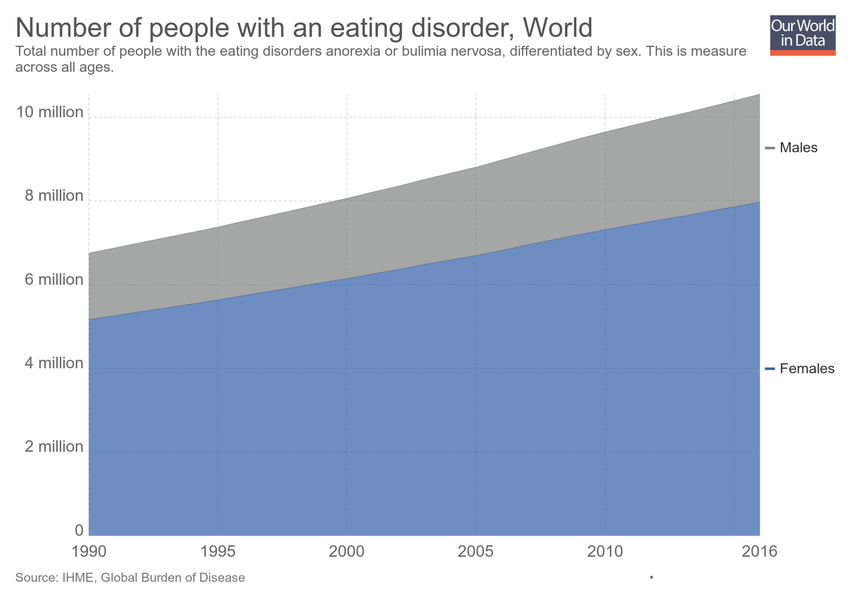
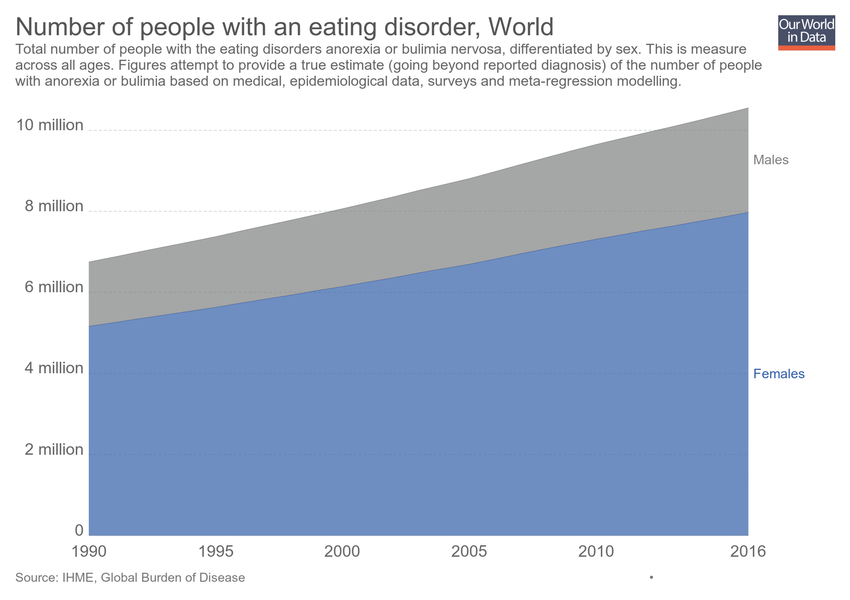
Updating chart number-with-an-eating-disorder

diff --git a/grapher/rate-of-internationally-observed-elections.html b/grapher/rate-of-internationally-observed-elections.html
@@ -1,4 +1,4 @@
-<!doctype html><html><head><meta name="viewport" content="width=device-width, initial-scale=1" /><title>Internationally observed elections (%) - Our World in Data</title><meta name="description" content="Percentage of internationally observed elections and whether they were criticized by international observers. Figures cover 1,754 election events in 157 independent states, excluding those with population less than 250,000." /><link rel="canonical" href="https://ourworldindata.org/grapher/rate-of-internationally-observed-elections" /><meta property="fb:app_id" content="1149943818390250" /><meta property="og:url" content="https://ourworldindata.org/grapher/rate-of-internationally-observed-elections" /><meta property="og:title" content="Internationally observed elections (%)" /><meta property="og:description" content="Percentage of internationally observed elections and whether they were criticized by international observers. Figures cover 1,754 election events in 157 independent states, excluding those with population less than 250,000." /><meta property="og:image" content="https://ourworldindata.org/grapher/exports/rate-of-internationally-observed-elections.png?v=16" /><meta property="og:image:width" content="850" /><meta property="og:image:height" content="600" /><meta property="og:site_name" content="Our World in Data" /><meta name="twitter:card" content="summary_large_image" /><meta name="twitter:site" content="@OurWorldInData" /><meta name="twitter:creator" content="@OurWorldInData" /><meta name="twitter:title" content="Internationally observed elections (%)" /><meta name="twitter:description" content="Percentage of internationally observed elections and whether they were criticized by international observers. Figures cover 1,754 election events in 157 independent states, excluding those with population less than 250,000." /><meta name="twitter:image" content="https://ourworldindata.org/grapher/exports/rate-of-internationally-observed-elections.png?v=16" /><style>
+<!doctype html><html><head><meta name="viewport" content="width=device-width, initial-scale=1" /><title>Internationally observed elections by Western monitors - Our World in Data</title><meta name="description" content="Estimates correspond to the number of international elections that were either observed and criticized by Western monitors, observed and not criticized by Western monitors, or elections that were not observed by Western monitors. Criticism refers to allegations of significant vote-fraud." /><link rel="canonical" href="https://ourworldindata.org/grapher/rate-of-internationally-observed-elections" /><meta property="fb:app_id" content="1149943818390250" /><meta property="og:url" content="https://ourworldindata.org/grapher/rate-of-internationally-observed-elections" /><meta property="og:title" content="Internationally observed elections by Western monitors" /><meta property="og:description" content="Estimates correspond to the number of international elections that were either observed and criticized by Western monitors, observed and not criticized by Western monitors, or elections that were not observed by Western monitors. Criticism refers to allegations of significant vote-fraud." /><meta property="og:image" content="https://ourworldindata.org/grapher/exports/rate-of-internationally-observed-elections.png?v=9" /><meta property="og:image:width" content="850" /><meta property="og:image:height" content="600" /><meta property="og:site_name" content="Our World in Data" /><meta name="twitter:card" content="summary_large_image" /><meta name="twitter:site" content="@OurWorldInData" /><meta name="twitter:creator" content="@OurWorldInData" /><meta name="twitter:title" content="Internationally observed elections by Western monitors" /><meta name="twitter:description" content="Estimates correspond to the number of international elections that were either observed and criticized by Western monitors, observed and not criticized by Western monitors, or elections that were not observed by Western monitors. Criticism refers to allegations of significant vote-fraud." /><meta name="twitter:image" content="https://ourworldindata.org/grapher/exports/rate-of-internationally-observed-elections.png?v=9" /><style>
         html, body {
             height: 100%;
             margin: 0;
@@ -20,8 +20,8 @@
         }
     </style><noscript><style>
                     figure { display: none !important; }
-                </style></noscript><link rel="stylesheet" href="https://ourworldindata.org/grapher/assets/commons.bundle.ac09ff8f098f0c7be836.css" /><link rel="preload" href="/grapher/data/variables/97378+97379.json?v=16" as="fetch" crossorigin /></head><body class="singleChart"><figure data-grapher-src="/grapher/rate-of-internationally-observed-elections"></figure><noscript id="fallback"><img src="/grapher/exports/rate-of-internationally-observed-elections.svg" /><p>Interactive visualization requires JavaScript</p></noscript><script src="https://cdn.polyfill.io/v2/polyfill.min.js?features=es6,fetch"></script><script src="https://ourworldindata.org/grapher/assets/commons.bundle.ac09ff8f098f0c7be836.js"></script><script src="https://ourworldindata.org/grapher/assets/charts.bundle.dcf65b68eddaba4c6a58.js"></script><script>
-        var jsonConfig = {"id":2589,"map":{"projection":"World","colorSchemeLabels":[],"colorSchemeValues":[],"colorSchemeMinValue":0,"customNumericColors":[],"customCategoryColors":{},"customCategoryLabels":{},"customHiddenCategories":{}},"tab":"chart","slug":"rate-of-internationally-observed-elections","type":"StackedArea","title":"Internationally observed elections (%)","xAxis":{"scaleType":"linear"},"yAxis":{"max":80,"min":0,"scaleType":"linear"},"version":16,"subtitle":"Percentage of internationally observed elections and whether they were criticized by international observers. Figures cover 1,754 election events in 157 independent states, excluding those with population less than 250,000.","hasMapTab":false,"stackMode":"absolute","dimensions":[{"display":{"name":"Percent of elections observed and criticised","unit":"%"},"property":"y","variableId":97378},{"display":{"name":"Percent of elections observed and not criticised"},"property":"y","variableId":97379}],"hasChartTab":true,"isPublished":true,"selectedData":[{"index":0,"entityId":355},{"index":1,"entityId":355}],"addCountryMode":"change-country","baseColorScheme":"Plasma","hideRelativeToggle":true,"hideTitleAnnotation":true};
+                </style></noscript><link rel="stylesheet" href="https://ourworldindata.org/grapher/assets/commons.bundle.ac09ff8f098f0c7be836.css" /><link rel="preload" href="/grapher/data/variables/97399+97400+97401.json?v=9" as="fetch" crossorigin /></head><body class="singleChart"><figure data-grapher-src="/grapher/rate-of-internationally-observed-elections"></figure><noscript id="fallback"><img src="/grapher/exports/rate-of-internationally-observed-elections.svg" /><p>Interactive visualization requires JavaScript</p></noscript><script src="https://cdn.polyfill.io/v2/polyfill.min.js?features=es6,fetch"></script><script src="https://ourworldindata.org/grapher/assets/commons.bundle.ac09ff8f098f0c7be836.js"></script><script src="https://ourworldindata.org/grapher/assets/charts.bundle.dcf65b68eddaba4c6a58.js"></script><script>
+        var jsonConfig = {"id":2598,"map":{"projection":"World","colorSchemeLabels":[],"colorSchemeValues":[],"customNumericColors":[],"customCategoryColors":{},"customCategoryLabels":{},"customHiddenCategories":{}},"tab":"chart","note":"Includes 2435 election events in 162 countries","slug":"rate-of-internationally-observed-elections","type":"StackedArea","title":"Internationally observed elections by Western monitors","xAxis":{"scaleType":"linear"},"yAxis":{"min":0,"scaleType":"linear"},"version":9,"subtitle":"Estimates correspond to the number of international elections that were either observed and criticized by Western monitors, observed and not criticized by Western monitors, or elections that were not observed by Western monitors. Criticism refers to allegations of significant vote-fraud.","hasMapTab":false,"stackMode":"relative","dimensions":[{"display":{"name":"Elections not observed","unit":"elections","shortUnit":""},"property":"y","variableId":97399},{"display":{"name":"Elections observed and criticized"},"property":"y","variableId":97400},{"display":{"name":"Elections observed and not critcized"},"property":"y","variableId":97401}],"hasChartTab":true,"isPublished":true,"selectedData":[{"index":0,"entityId":355},{"index":2,"entityId":355},{"index":1,"entityId":355}],"addCountryMode":"change-country","baseColorScheme":"owid-distinct","invertColorScheme":true,"hideTitleAnnotation":true};
         var figure = document.getElementsByTagName("figure")[0];
         try {
             window.App = {};

diff --git a/grapher/number-with-an-eating-disorder.html b/grapher/number-with-an-eating-disorder.html
@@ -1,4 +1,4 @@
-<!doctype html><html><head><meta name="viewport" content="width=device-width, initial-scale=1" /><title>Number of people with an eating disorder - Our World in Data</title><meta name="description" content="Total number of people with the eating disorders anorexia or bulimia nervosa, differentiated by sex. This is measure across all ages." /><link rel="canonical" href="https://ourworldindata.org/grapher/number-with-an-eating-disorder" /><meta property="fb:app_id" content="1149943818390250" /><meta property="og:url" content="https://ourworldindata.org/grapher/number-with-an-eating-disorder" /><meta property="og:title" content="Number of people with an eating disorder" /><meta property="og:description" content="Total number of people with the eating disorders anorexia or bulimia nervosa, differentiated by sex. This is measure across all ages." /><meta property="og:image" content="https://ourworldindata.org/grapher/exports/number-with-an-eating-disorder.png?v=1" /><meta property="og:image:width" content="850" /><meta property="og:image:height" content="600" /><meta property="og:site_name" content="Our World in Data" /><meta name="twitter:card" content="summary_large_image" /><meta name="twitter:site" content="@OurWorldInData" /><meta name="twitter:creator" content="@OurWorldInData" /><meta name="twitter:title" content="Number of people with an eating disorder" /><meta name="twitter:description" content="Total number of people with the eating disorders anorexia or bulimia nervosa, differentiated by sex. This is measure across all ages." /><meta name="twitter:image" content="https://ourworldindata.org/grapher/exports/number-with-an-eating-disorder.png?v=1" /><style>
+<!doctype html><html><head><meta name="viewport" content="width=device-width, initial-scale=1" /><title>Number of people with an eating disorder - Our World in Data</title><meta name="description" content="Total number of people with the eating disorders anorexia or bulimia nervosa, differentiated by sex. This is measure across all ages. Figures attempt to provide a true estimate (going beyond reported diagnosis) of the number of people with anorexia or bulimia based on medical, epidemiological data, surveys and meta-regression modelling." /><link rel="canonical" href="https://ourworldindata.org/grapher/number-with-an-eating-disorder" /><meta property="fb:app_id" content="1149943818390250" /><meta property="og:url" content="https://ourworldindata.org/grapher/number-with-an-eating-disorder" /><meta property="og:title" content="Number of people with an eating disorder" /><meta property="og:description" content="Total number of people with the eating disorders anorexia or bulimia nervosa, differentiated by sex. This is measure across all ages. Figures attempt to provide a true estimate (going beyond reported diagnosis) of the number of people with anorexia or bulimia based on medical, epidemiological data, surveys and meta-regression modelling." /><meta property="og:image" content="https://ourworldindata.org/grapher/exports/number-with-an-eating-disorder.png?v=2" /><meta property="og:image:width" content="850" /><meta property="og:image:height" content="600" /><meta property="og:site_name" content="Our World in Data" /><meta name="twitter:card" content="summary_large_image" /><meta name="twitter:site" content="@OurWorldInData" /><meta name="twitter:creator" content="@OurWorldInData" /><meta name="twitter:title" content="Number of people with an eating disorder" /><meta name="twitter:description" content="Total number of people with the eating disorders anorexia or bulimia nervosa, differentiated by sex. This is measure across all ages. Figures attempt to provide a true estimate (going beyond reported diagnosis) of the number of people with anorexia or bulimia based on medical, epidemiological data, surveys and meta-regression modelling." /><meta name="twitter:image" content="https://ourworldindata.org/grapher/exports/number-with-an-eating-disorder.png?v=2" /><style>
         html, body {
             height: 100%;
             margin: 0;
@@ -20,8 +20,8 @@
         }
     </style><noscript><style>
                     figure { display: none !important; }
-                </style></noscript><link rel="stylesheet" href="https://ourworldindata.org/grapher/assets/commons.bundle.ac09ff8f098f0c7be836.css" /><link rel="preload" href="/grapher/data/variables/84781+84780.json?v=1" as="fetch" crossorigin /></head><body class="singleChart"><figure data-grapher-src="/grapher/number-with-an-eating-disorder"></figure><noscript id="fallback"><img src="/grapher/exports/number-with-an-eating-disorder.svg" /><p>Interactive visualization requires JavaScript</p></noscript><script src="https://cdn.polyfill.io/v2/polyfill.min.js?features=es6,fetch"></script><script src="https://ourworldindata.org/grapher/assets/commons.bundle.ac09ff8f098f0c7be836.js"></script><script src="https://ourworldindata.org/grapher/assets/charts.bundle.dcf65b68eddaba4c6a58.js"></script><script>
-        var jsonConfig = {"map":{"projection":"World","colorSchemeLabels":[],"colorSchemeValues":[],"defaultProjection":"World","colorSchemeMinValue":0,"customNumericColors":[],"customCategoryColors":{},"customCategoryLabels":{},"customHiddenCategories":{}},"tab":"chart","slug":"number-with-an-eating-disorder","type":"StackedArea","title":"Number of people with an eating disorder","xAxis":{"scaleType":"linear"},"yAxis":{"min":0,"scaleType":"linear"},"version":1,"subtitle":"Total number of people with the eating disorders anorexia or bulimia nervosa, differentiated by sex. This is measure across all ages.","hasMapTab":false,"stackMode":"absolute","dimensions":[{"display":{"name":"Females","unit":"number"},"property":"y","variableId":84781,"numDecimalPlaces":0},{"display":{"name":"Males","unit":"number"},"property":"y","variableId":84780,"numDecimalPlaces":0}],"sourceDesc":"IHME, Global Burden of Disease","hasChartTab":true,"isPublished":true,"selectedData":[{"color":"#818282","index":1,"entityId":355},{"index":0,"entityId":355}],"addCountryMode":"change-country","id":2173};
+                </style></noscript><link rel="stylesheet" href="https://ourworldindata.org/grapher/assets/commons.bundle.ac09ff8f098f0c7be836.css" /><link rel="preload" href="/grapher/data/variables/84781+84780.json?v=2" as="fetch" crossorigin /></head><body class="singleChart"><figure data-grapher-src="/grapher/number-with-an-eating-disorder"></figure><noscript id="fallback"><img src="/grapher/exports/number-with-an-eating-disorder.svg" /><p>Interactive visualization requires JavaScript</p></noscript><script src="https://cdn.polyfill.io/v2/polyfill.min.js?features=es6,fetch"></script><script src="https://ourworldindata.org/grapher/assets/commons.bundle.ac09ff8f098f0c7be836.js"></script><script src="https://ourworldindata.org/grapher/assets/charts.bundle.dcf65b68eddaba4c6a58.js"></script><script>
+        var jsonConfig = {"id":2173,"map":{"projection":"World","colorSchemeLabels":[],"colorSchemeValues":[],"colorSchemeMinValue":0,"customNumericColors":[],"customCategoryColors":{},"customCategoryLabels":{},"customHiddenCategories":{}},"tab":"chart","slug":"number-with-an-eating-disorder","type":"StackedArea","title":"Number of people with an eating disorder","xAxis":{"scaleType":"linear"},"yAxis":{"min":0,"scaleType":"linear"},"version":2,"subtitle":"Total number of people with the eating disorders anorexia or bulimia nervosa, differentiated by sex. This is measure across all ages. Figures attempt to provide a true estimate (going beyond reported diagnosis) of the number of people with anorexia or bulimia based on medical, epidemiological data, surveys and meta-regression modelling.","hasMapTab":false,"stackMode":"absolute","dimensions":[{"display":{"name":"Females","unit":"number"},"property":"y","variableId":84781},{"display":{"name":"Males","unit":"number"},"property":"y","variableId":84780}],"sourceDesc":"IHME, Global Burden of Disease","hasChartTab":true,"isPublished":true,"selectedData":[{"color":"#818282","index":1,"entityId":355},{"index":0,"entityId":355}],"addCountryMode":"change-country"};
         var figure = document.getElementsByTagName("figure")[0];
         try {
             window.App = {};
